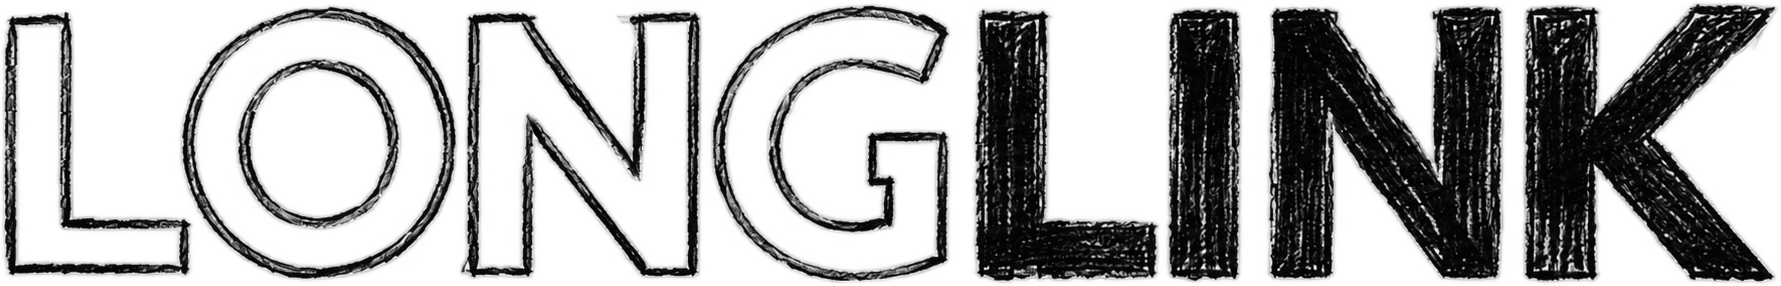
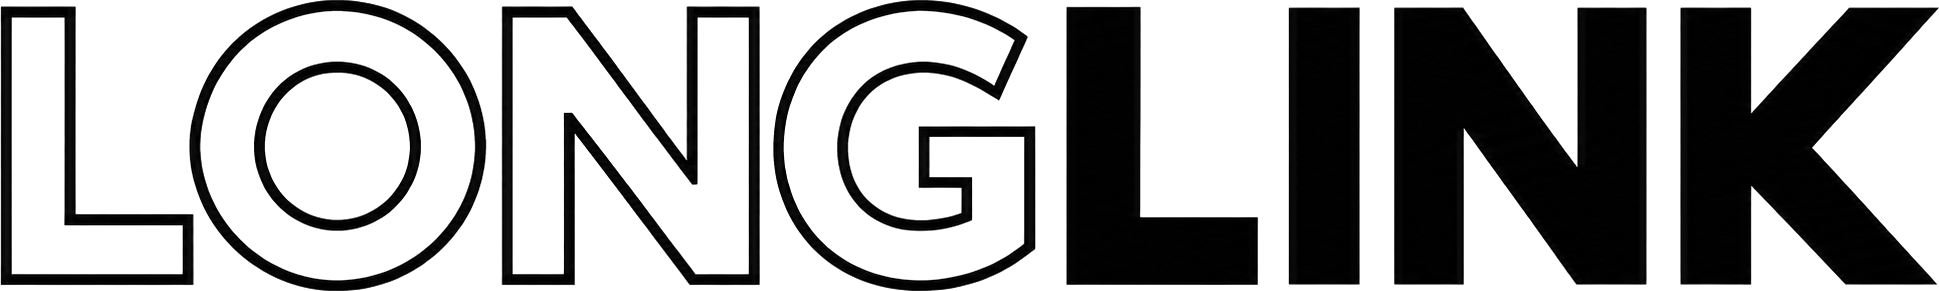
feat(web): Replace the shared LongLink wordmark

Changed region(s): [[0.0, 0.0, 1.0, 1.0]]

diff --git a/web/src/components/layouts/platform.tsx b/web/src/components/layouts/platform.tsx
@@ -84,13 +84,13 @@ export default function Platform({
                                     <img
                                         alt="LongLink"
                                         className={isCollapsed ? 'size-8 object-contain' : 'block h-auto w-full'}
-                                        height={isCollapsed ? 32 : 286}
+                                        height={isCollapsed ? 32 : 291}
                                         src={
                                             isCollapsed
                                                 ? `/longlink-logo-${mode}.png`
                                                 : `/images/longlink-wordmark-${mode}.png`
                                         }
-                                        width={isCollapsed ? 32 : 1781}
+                                        width={isCollapsed ? 32 : 1939}
                                     />
                                 </RouterLink>
                             )}

diff --git a/web/tests/components/layouts/platform.test.tsx b/web/tests/components/layouts/platform.test.tsx
@@ -377,8 +377,8 @@ it('describes the initial collapsed rail on keyboard focus and keeps anchors mou
             expect(output.querySelector('a[href="/solution"]')).toBe(solution);
             expect(solution.hidden).toBe(false);
             expect(solution.textContent).toBe('Solution view');
-            expect(output.querySelector('img[alt="LongLink"]')?.getAttribute('width')).toBe('1781');
-            expect(output.querySelector('img[alt="LongLink"]')?.getAttribute('height')).toBe('286');
+            expect(output.querySelector('img[alt="LongLink"]')?.getAttribute('width')).toBe('1939');
+            expect(output.querySelector('img[alt="LongLink"]')?.getAttribute('height')).toBe('291');
             await act(async () => user.tab({ shift: true }));
             expect(document.activeElement).toBe(users);
             expect(document.querySelector('[role="tooltip"]')).toBeNull();

diff --git a/web/src/components/wordmark.tsx b/web/src/components/wordmark.tsx
@@ -12,7 +12,7 @@ export function Welcome() {
     );
 }
 
-/** Renders the hand-drawn LongLink wordmark in the surrounding theme and text size. */
+/** Renders the LongLink wordmark in the surrounding theme and text size. */
 export function Wordmark({
     size = 'default',
     mode
@@ -30,9 +30,9 @@ export function Wordmark({
             <img
                 alt="LongLink"
                 className={size === 'full' ? 'block h-auto w-full' : 'block h-lh w-auto max-w-none'}
-                height={286}
+                height={291}
                 src={`/images/longlink-wordmark-${resolvedMode}.png`}
-                width={1781}
+                width={1939}
             />
         </span>
     );
